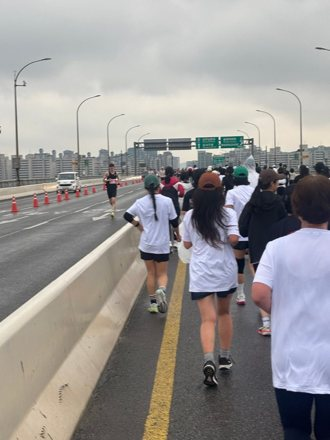
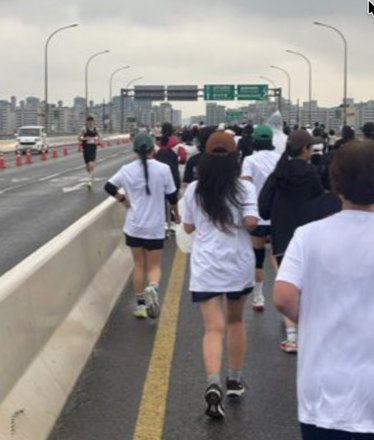
About Me: swap running photos, new marathon crop, Indie Flower captions at smaller size
Claude-Session: https://claude.ai/code/session_01GYaXMgFYpFz8tBfJmAVwxN

diff --git a/_pages/about-me.md b/_pages/about-me.md
@@ -73,7 +73,7 @@ author_profile: true
 .about-timeline { display:flex; flex-direction:column; align-items:center; padding-top:3.2rem; }
 .tl-photo { display:block !important; margin:0; width:150px; background:#fff; padding:5px 5px 6px; box-shadow:0 2px 8px rgba(0,0,0,.13); border-radius:3px; }
 .tl-photo img { width:100%; display:block; border-radius:2px; }
-.tl-photo figcaption { font-family:'Nanum Pen Script',cursive; font-size:1.05rem; line-height:1.2; color:#4b5563; text-align:center !important; width:100%; margin-top:.35rem; }
+.tl-photo figcaption { font-family:'Indie Flower',cursive; font-size:.62rem; line-height:1.2; color:#4b5563; text-align:center !important; width:100%; margin-top:.35rem; }
 .tl-photo.tl-pair { margin-bottom:.5rem; }
 .tilt-l { transform:rotate(-2deg); }
 .tilt-r { transform:rotate(1.6deg); }
@@ -92,7 +92,7 @@ author_profile: true
   .tl-photo { width:140px; }
 }
 </style>
-<link href="https://fonts.googleapis.com/css2?family=Nanum+Pen+Script&display=swap" rel="stylesheet">
+<link href="https://fonts.googleapis.com/css2?family=Indie+Flower&display=swap" rel="stylesheet">
 
 <div class="about-page">
 
@@ -144,9 +144,9 @@ author_profile: true
 </section>
 <aside class="about-timeline tl-second" aria-label="More photos">
 <div class="tl-dots" aria-hidden="true"><span></span><span></span><span></span></div>
-<figure class="tl-photo tilt-l"><img src="/images/about/sydney.jpg" alt="Running in Sydney!" loading="lazy"><figcaption>Running in Sydney!</figcaption></figure>
+<figure class="tl-photo tilt-l"><img src="/images/about/marathon.jpg" alt="Running a race in Seoul" loading="lazy"><figcaption>Running a race in Seoul</figcaption></figure>
 <svg class="tl-arrow" viewBox="0 0 60 46" aria-hidden="true"><path d="M30 3 C 50 12, 10 22, 30 38" /><path d="M23 32 L30 40 L36 31" /></svg>
-<figure class="tl-photo tilt-r"><img src="/images/about/marathon.jpg" alt="Running a race in Seoul" loading="lazy"><figcaption>Running a race in Seoul</figcaption></figure>
+<figure class="tl-photo tilt-r"><img src="/images/about/sydney.jpg" alt="Running in Sydney!" loading="lazy"><figcaption>Running in Sydney!</figcaption></figure>
 <div class="tl-dots" aria-hidden="true"><span></span><span></span><span></span></div>
 <figure class="tl-photo tilt-l"><img src="/images/about/hands.jpg" alt="Hands raised together: we rise by lifting others" loading="lazy"></figure>
 </aside>
